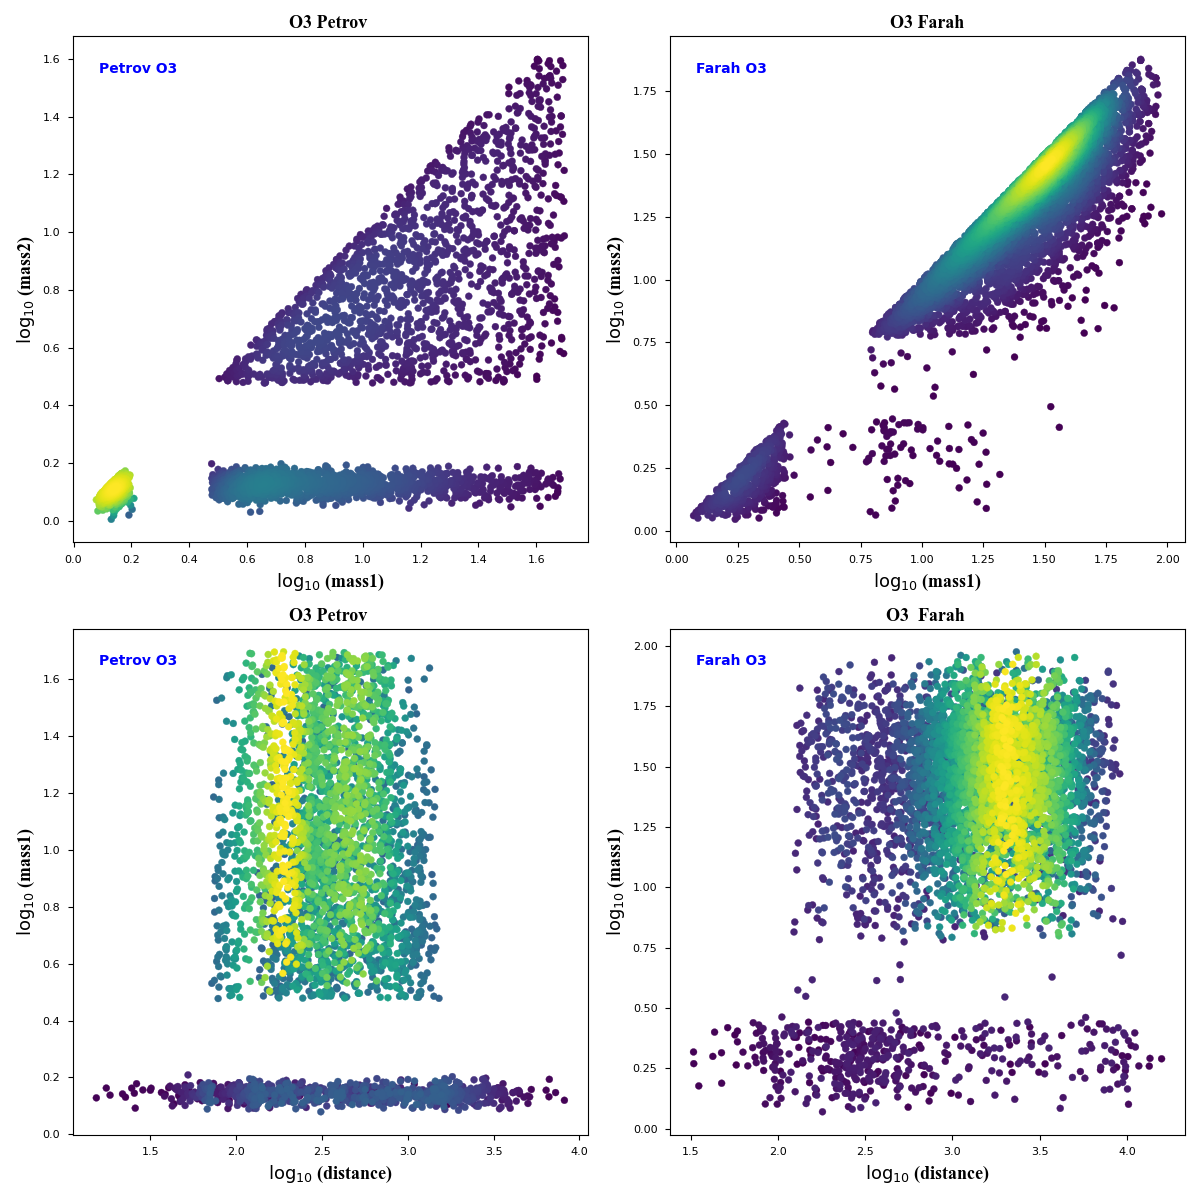
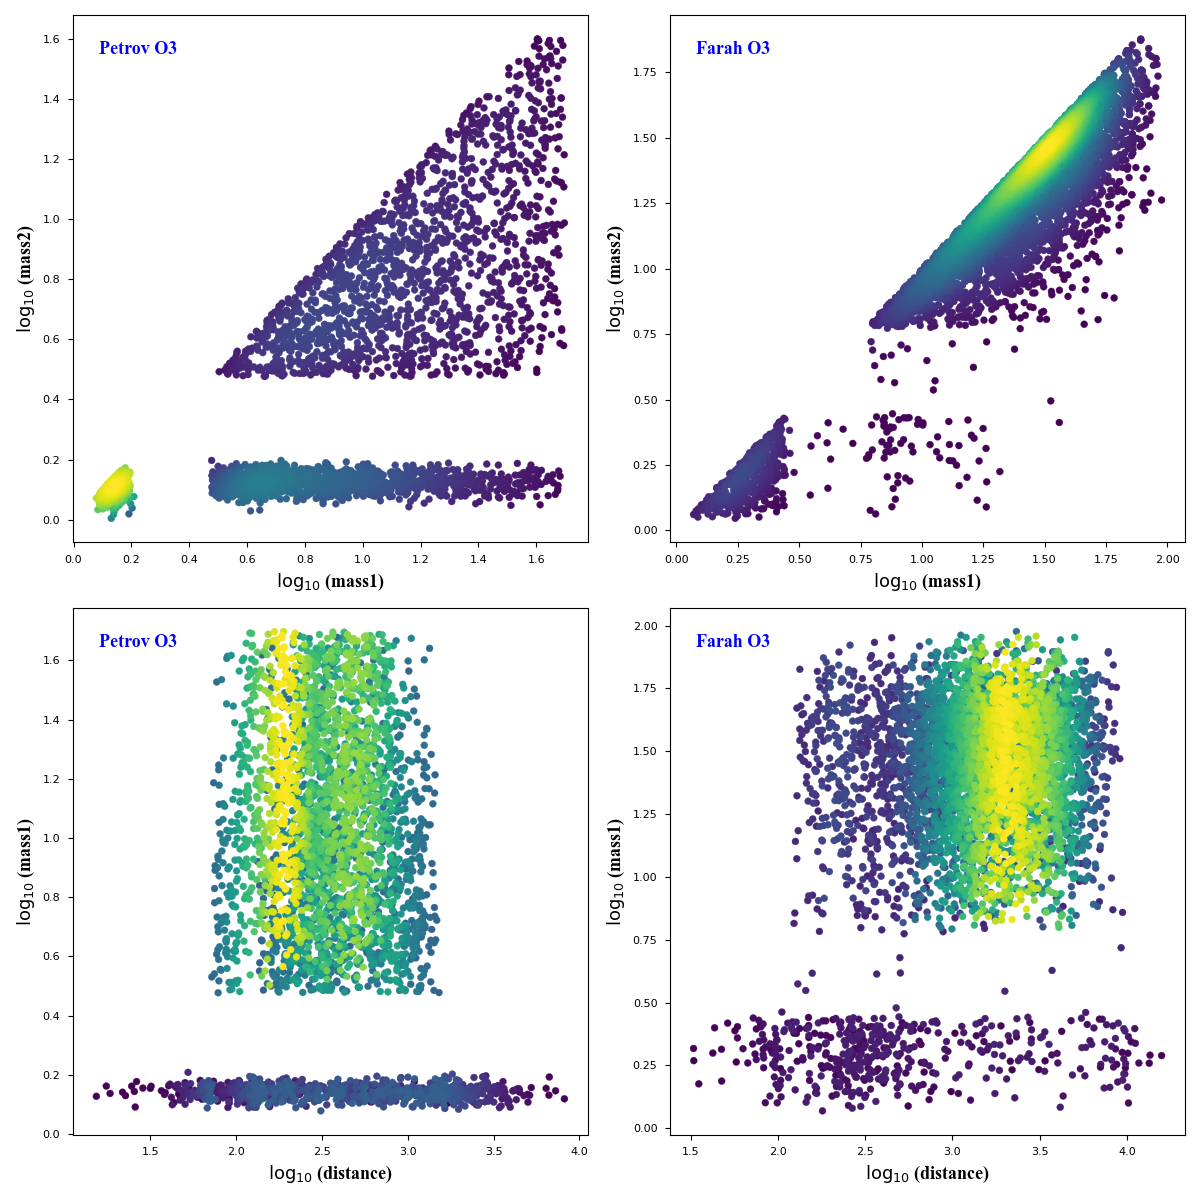
ligth curve plots

diff --git a/light_curve_median.py b/light_curve_median.py
@@ -12,8 +12,8 @@ outdir = "./paper_plots"
 if not os.path.isdir(outdir):
     os.makedirs(outdir)
 
-run_names  = ['O4', 'O5']
-distribution = ['Petrov', 'Farah']
+run_names  = ['O5']
+distribution = ['Farah']
 telescopes  = ['ztf', 'rubin'] 
 pops       = ['BNS', 'NSBH']
 
@@ -56,35 +56,43 @@ with tqdm(total=len(distribution)*len(telescopes) * len(run_names)*len(pops)) as
                              
                             if telescope == 'ztf':
                                 if pop == 'BNS': 
-                                    axs[0, 0].hist(mag, bins=85, density =12, histtype='step' , color=c,  label= filt , linewidth=1.2)
+                                    #axs[0, 0].hist(mag, bins=80, density =12, histtype='step' , color=c,  label= filt , linewidth=1.2)
+                                    axs[0, 0].hist(mag, bins=40, density =12, histtype='step' , color=c,  label= filt , linewidth=1.2)
                                     axs[0, 0].legend(prop={'size': 10}) 
-                                    axs[0, 0].set_title(f'{run_name} {dist}  {telescope} ', fontname="Times New Roman", size=13, fontweight="bold")
+                                    #axs[0, 0].set_title(f'{run_name} {dist}  {telescope} ', fontname="Times New Roman", size=13, fontweight="bold")
                                 
-                                    axs[0, 0].text(0.05, 0.95, f'{run_name} {dist}  {telescope}', transform=axs[0,0].transAxes,  va='top')
-                                    axs[0, 0].text(0.05, 0.85, pop, transform=axs[0,0].transAxes, color='green',  va='top')
+                                    axs[0, 0].text(0.03, 0.95, f'{run_name} {dist}  {telescope}', transform=axs[0,0].transAxes,  va='top', fontname="Times New Roman", size=13, fontweight="bold")
+                                    axs[0, 0].text(0.03, 0.85, pop, transform=axs[0,0].transAxes, color='green',  va='top', fontname="Times New Roman", size=13, fontweight="bold")
+                                    axs[0, 0].set_xlabel(r'Magnitude', fontname="Times New Roman", size=13, fontweight="bold") 
                                     
                                 else:
-                                    axs[1, 0].hist(mag, bins=40, density =12, histtype='step' , color=c,  label= filt , linewidth=1.2)
-                                    axs[1, 0].set_title(f'{run_name} {dist} {telescope} ', fontname="Times New Roman", size=13, fontweight="bold")
-                                    axs[1, 0].text(0.05, 0.95, f'{run_name} {dist}  {telescope} ', transform=axs[1,0].transAxes,  va='top')
-                                    axs[1, 0].text(0.05, 0.85, pop, transform=axs[1,0].transAxes, color='blue',  va='top') 
+                                    #axs[1, 0].hist(mag, bins=35, density =12, histtype='step' , color=c,  label= filt , linewidth=1.2)
+                                    axs[1, 0].hist(mag, bins=5, density =12, histtype='step' , color=c,  label= filt , linewidth=1.2)
+                                    #axs[1, 0].set_title(f'{run_name} {dist} {telescope} ', fontname="Times New Roman", size=13, fontweight="bold")
+                                    axs[1, 0].text(0.03, 0.95, f'{run_name} {dist}  {telescope} ', transform=axs[1,0].transAxes,  va='top', fontname="Times New Roman", size=13, fontweight="bold")
+                                    axs[1, 0].text(0.03, 0.85, pop, transform=axs[1,0].transAxes, color='blue',  va='top', fontname="Times New Roman", size=13, fontweight="bold")
+                                    axs[1, 0].set_xlabel(r'Magnitude', fontname="Times New Roman", size=13, fontweight="bold")  
                                 
                             else:
                                 if pop == 'BNS': 
-                                    axs[0, 1].hist(mag, bins=85, density =12, histtype='step' , color=c,  label= filt , linewidth=1.2)
-                                    axs[0, 1].set_title(f'{run_name} {dist} {telescope} ', fontname="Times New Roman", size=13, fontweight="bold")
-                                    axs[0, 1].text(0.05, 0.95, f'{run_name} {dist}  {telescope} ', transform=axs[0,1].transAxes,  va='top')
-                                    axs[0, 1].text(0.05, 0.85, pop, transform=axs[0,1].transAxes, color='green',  va='top') 
+                                   # axs[0, 1].hist(mag, bins=50, density =12, histtype='step' , color=c,  label= filt , linewidth=1.2)
+                                    axs[0, 1].hist(mag, bins=35, density =12, histtype='step' , color=c,  label= filt , linewidth=1.2) 
+                                    #axs[0, 1].set_title(f'{run_name} {dist} {telescope} ', fontname="Times New Roman", size=13, fontweight="bold")
+                                    axs[0, 1].text(0.03, 0.95, f'{run_name} {dist}  {telescope} ', transform=axs[0,1].transAxes,  va='top', fontname="Times New Roman", size=13, fontweight="bold")
+                                    axs[0, 1].text(0.03, 0.85, pop, transform=axs[0,1].transAxes, color='green',  va='top', fontname="Times New Roman", size=13, fontweight="bold")
+                                    axs[0, 1].set_xlabel(r'Magnitude', fontname="Times New Roman", size=13, fontweight="bold") 
                                 else:
-                                    axs[1, 1].hist(mag, bins=30, density =12, histtype='step' , color=c,  label= filt , linewidth=1.2)
+                                    #axs[1, 1].hist(mag, bins=30, density =12, histtype='step' , color=c,  label= filt , linewidth=1.2)
+                                    axs[1, 1].hist(mag, bins=5, density =12, histtype='step' , color=c,  label= filt , linewidth=1.2)
                                     axs[1, 1].legend(prop={'size': 10}, loc='lower left')
-                                    axs[1, 1].set_title(f'{run_name} {dist} {telescope} ', fontname="Times New Roman", size=13, fontweight="bold")
-                                    axs[1, 1].text(0.05, 0.95, f'{run_name} {dist}  {telescope} ', transform=axs[1,1].transAxes,  va='top')
-                                    axs[1, 1].text(0.05, 0.85, pop, transform=axs[1,1].transAxes, color='blue',  va='top')  
+                                    #axs[1, 1].set_title(f'{run_name} {dist} {telescope} ', fontname="Times New Roman", size=13, fontweight="bold")
+                                    axs[1, 1].text(0.03, 0.95, f'{run_name} {dist}  {telescope} ', transform=axs[1,1].transAxes,  va='top', fontname="Times New Roman", size=13, fontweight="bold")
+                                    axs[1, 1].text(0.05, 0.85, pop, transform=axs[1,1].transAxes, color='blue',  va='top', fontname="Times New Roman", size=13, fontweight="bold")
+                                    axs[1, 1].set_xlabel(r'Magnitude', fontname="Times New Roman", size=13, fontweight="bold")  
                     
                     progress.update()
-        
-            plt.gcf().set_size_inches(12, 9)
+            
+            plt.gcf().set_size_inches(9, 6)
             plt.subplots_adjust(left=0.1,
                     bottom=0.1,
                     right=0.9,

diff --git a/distribution_gaussian_kde_Post_Split.py b/distribution_gaussian_kde_Post_Split.py
@@ -145,10 +145,10 @@ with tqdm(total=len(run_names)) as progress:
                             
                             axs[0, 0].scatter(mass1, mass2, c=z, s=25)
                             
-                            axs[0, 0].set_title(f'{run_name} {dist} ', fontname="Times New Roman", size=13,  fontweight="bold")
+                            #axs[0, 0].set_title(f'{run_name} {dist} ', fontname="Times New Roman", size=13,  fontweight="bold")
                             axs[0, 0].set_xlabel(r'$\log_{10}$ (mass1)', fontname="Times New Roman", size=13, fontweight="bold")
                             axs[0, 0].set_ylabel(r'$\log_{10}$ (mass2)', fontname="Times New Roman", size=13, fontweight="bold")
-                            axs[0, 0].text(0.05, 0.95, f'{dist} {run_name}', transform=axs[0,0].transAxes,  color='blue', va='top', fontweight="bold")
+                            axs[0, 0].text(0.05, 0.95, f'{dist} {run_name}', transform=axs[0,0].transAxes,  color='blue', va='top', fontname="Times New Roman", size=13, fontweight="bold")
                             
                         else:
                             distance    = np.log10(Petrov['distance'])
@@ -161,10 +161,10 @@ with tqdm(total=len(run_names)) as progress:
                                                                  
                             axs[1, 0].scatter(distance, mass1, c=z, s=25)
                                                                  
-                            axs[1, 0].set_title(f'{run_name} {dist} ', fontname="Times New Roman", size=13, fontweight="bold")
+                            #axs[1, 0].set_title(f'{run_name} {dist} ', fontname="Times New Roman", size=13, fontweight="bold")
                             axs[1, 0].set_xlabel(r'$\log_{10}$ (distance)', fontname="Times New Roman", size=13, fontweight="bold")
                             axs[1, 0].set_ylabel(r'$\log_{10}$ (mass1)', fontname="Times New Roman", size=13, fontweight="bold")
-                            axs[1, 0].text(0.05, 0.95, f'{dist} {run_name}', transform=axs[1,0].transAxes, color ='blue',  va='top', fontweight="bold")
+                            axs[1, 0].text(0.05, 0.95, f'{dist} {run_name}', transform=axs[1,0].transAxes, color ='blue',  va='top',fontname="Times New Roman", size=13, fontweight="bold")
                             
                 else:
                     for param in params:
@@ -179,10 +179,10 @@ with tqdm(total=len(run_names)) as progress:
                             
                             axs[0, 1].scatter(mass1, mass2, c=z, s=25)
                             
-                            axs[0, 1].set_title(f'{run_name} {dist}', fontname="Times New Roman", size=13, fontweight="bold")
+                            #axs[0, 1].set_title(f'{run_name} {dist}', fontname="Times New Roman", size=13, fontweight="bold")
                             axs[0, 1].set_xlabel(r'$\log_{10}$ (mass1)', fontname="Times New Roman", size=13, fontweight="bold")
                             axs[0, 1].set_ylabel(r'$\log_{10}$ (mass2)', fontname="Times New Roman", size=13, fontweight="bold")
-                            axs[0, 1].text(0.05, 0.95, f'{dist} {run_name}', transform=axs[0,1].transAxes, color ='blue', va='top', fontweight="bold") 
+                            axs[0, 1].text(0.05, 0.95, f'{dist} {run_name}', transform=axs[0,1].transAxes, color ='blue', va='top', fontname="Times New Roman", size=13, fontweight="bold") 
                         else:
                             distance    = np.log10(Farah['distance'])
                             mass1       = np.log10(Farah['mass1'])
@@ -194,10 +194,10 @@ with tqdm(total=len(run_names)) as progress:
                                                                  
                             axs[1, 1].scatter(distance, mass1, c=z, s=25)
                                                                  
-                            axs[1, 1].set_title(f'{run_name}  {dist} ', fontname="Times New Roman", size=13, fontweight="bold")
-                            axs[1, 1].set_xlabel(r'$\log_{10}$ (distance)', fontname="Times New Roman", size=13,fontweight="bold")
-                            axs[1, 1].set_ylabel(r'$\log_{10}$ (mass1)', fontname="Times New Roman", size=13, fontweight="bold")
-                            axs[1, 1].text(0.05, 0.95, f'{dist} {run_name}', transform=axs[1,1].transAxes, color ='blue',  va='top', fontweight="bold")
+                            #axs[1, 1].set_title(f'{run_name}  {dist} ', fontname="Times New Roman", size=13, fontweight="bold")
+                            axs[1, 1].set_xlabel(r'$\log_{10}$ (distance)', fontname="Times New Roman", size=13, fontweight="bold")
+                            axs[1, 1].set_ylabel(r'$\log_{10}$ (mass1)',    fontname="Times New Roman", size=13, fontweight="bold")
+                            axs[1, 1].text(0.05, 0.95, f'{dist} {run_name}', transform=axs[1,1].transAxes, color ='blue',  va='top', fontname="Times New Roman", size=13, fontweight="bold")
 
         plt.gcf().set_size_inches(12, 12)
         plt.subplots_adjust(left=0.1,
